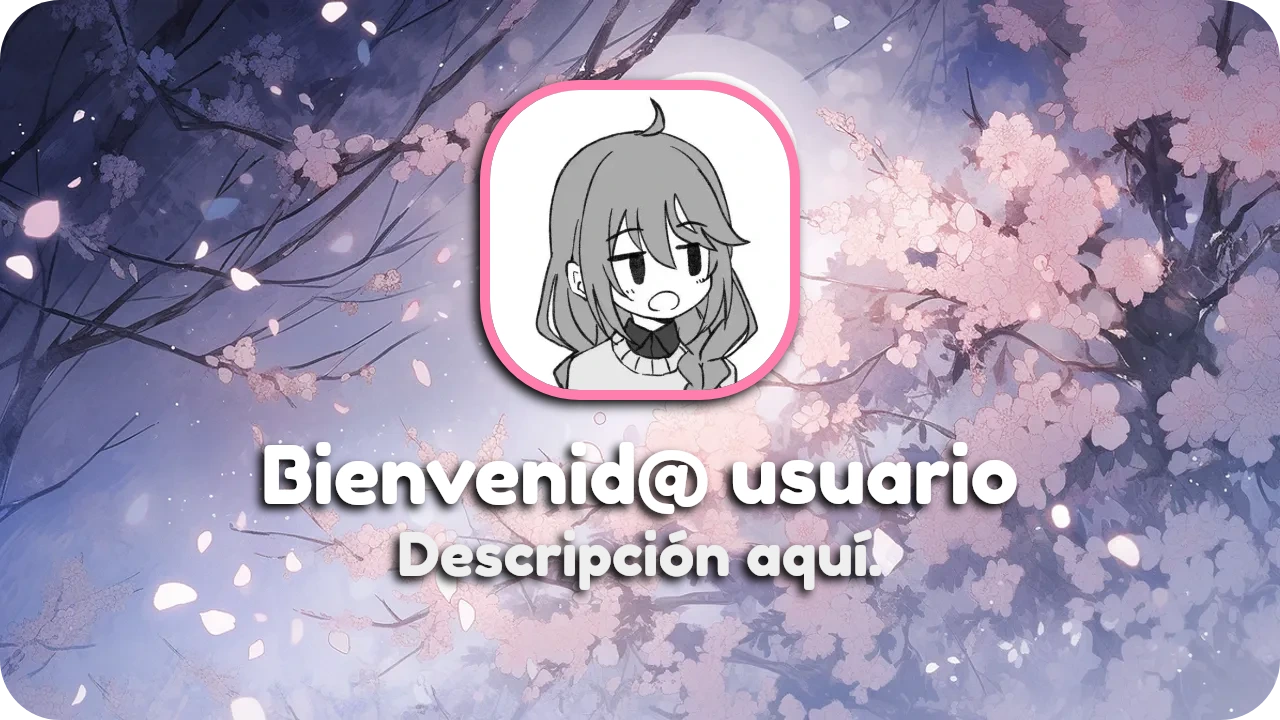
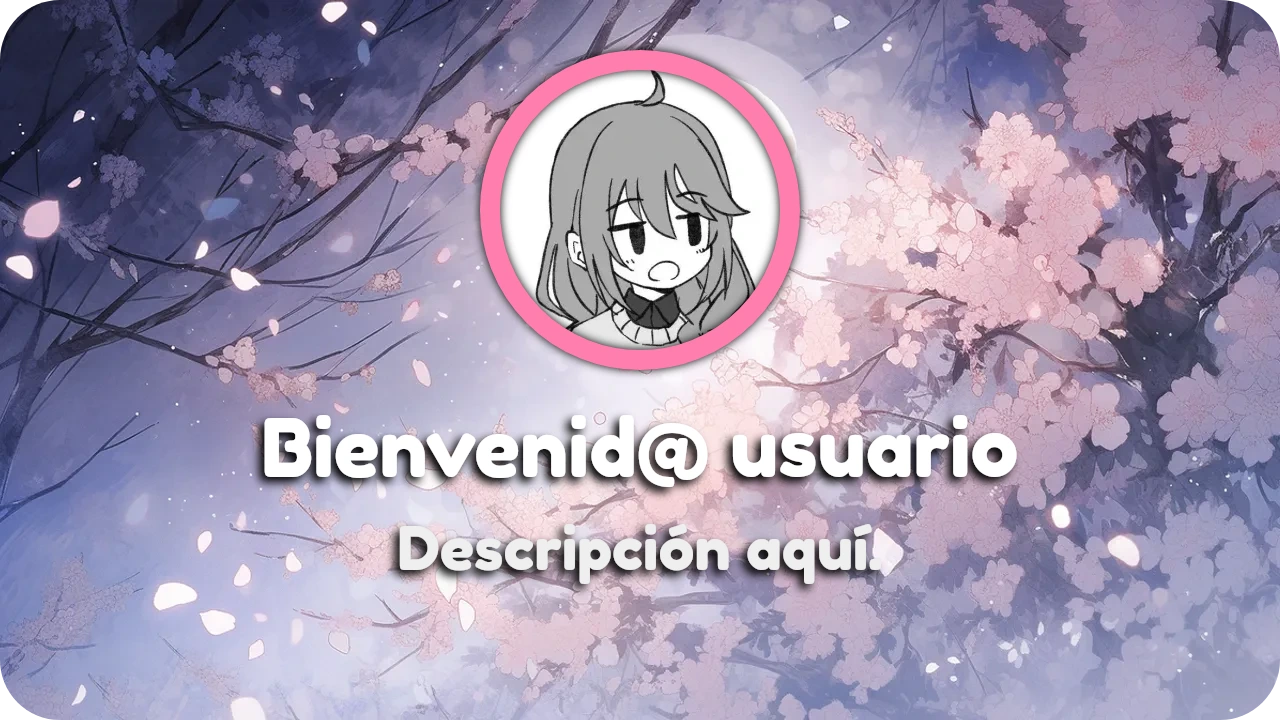
feat: v1.6.0

Changed region(s): [[0.1875, 0.0611, 0.8125, 0.825]]

diff --git a/src/services/cards.ts b/src/services/cards.ts
@@ -1,0 +1,69 @@
+import { WelcomeCard } from "../structures/WelcomeCard.js";
+import { CustomCardsError } from "../utils/error.js";
+import { welcomeCard } from "../utils/endpoints.js";
+import { ApiCardResponse } from "../types/api.js";
+import { FrameType } from "../types/models.js";
+import { AxiosInstance } from "axios";
+
+export class Cards {
+  constructor(protected api: AxiosInstance) {}
+
+  async createWelcomeCard(card: WelcomeCard): Promise<ApiCardResponse<Buffer>> {
+    if (!card) throw new CustomCardsError("card property is required");
+    if (!card.avatar) throw new CustomCardsError("card.avatar is required");
+    if (!card.font) throw new CustomCardsError("card.font is required");
+    if (!card.text) throw new CustomCardsError("card.text is required");
+    if (!(card.avatar.source instanceof File))
+      throw new CustomCardsError("Invalid avatar source, use an image adapter");
+
+    const body = new FormData();
+
+    body.append("variant", card.variant);
+    body.append("text", JSON.stringify(card.text));
+    body.append("font", card.font);
+    body.append("avatar", card.avatar.source);
+    body.append("frameType", card.avatar.frameType);
+
+    // Avatar
+    if (card.avatar.frameType !== FrameType.Custom) {
+      if (card.avatar.frameColor)
+        body.append("frameColor", card.avatar.frameColor);
+    } else {
+      if (!card.avatar.mask)
+        throw new CustomCardsError("card.avatar.mask is required");
+      if (!(card.avatar.mask instanceof File))
+        throw new CustomCardsError("Invalid mask source, use an image adapter");
+      if (!card.avatar.frame)
+        throw new CustomCardsError("card.avatar.frame is required");
+      if (!(card.avatar.frame instanceof File))
+        throw new CustomCardsError(
+          "Invalid frame source, use an image adapter"
+        );
+
+      body.append("mask", card.avatar.mask);
+      body.append("frame", card.avatar.frame);
+    }
+
+    // Background
+    if (card.background) {
+      if (!(card.background instanceof File))
+        throw new CustomCardsError(
+          "Invalid background source, use an image adapter"
+        );
+      body.append("background", card.background);
+    }
+    if (card.backgroundOpacity)
+      body.append("backgroundOpacity", `${card.backgroundOpacity}`);
+
+    try {
+      const { data } = await this.api.post<ApiCardResponse>(welcomeCard, body);
+      return {
+        card: Buffer.from(data.card, "base64"),
+        mimetype: data.mimetype,
+      };
+    } catch (e) {
+      const msg = Array.isArray(e.message) ? e.message[0] : e.message;
+      throw new CustomCardsError(msg);
+    }
+  }
+}

diff --git a/src/structures/WelcomeCard.ts b/src/structures/WelcomeCard.ts
@@ -1,7 +1,11 @@
-import { AvatarOptions, Fonts, TextOptions } from "../types/models.js";
+import { AvatarOptions, Fonts, TextOptions, Variant } from "../types/models.js";
 import { CustomCardsError } from "../utils/error.js";
 
 interface WelcomeCardData {
+  /**
+   * Set the variant card
+   */
+  variant: Variant;
   /**
    * Set the text for the card.
    *
@@ -17,20 +21,27 @@ interface WelcomeCardData {
    */
   background?: File;
   /**
+   * Set the background opacity.
+   */
+  backgroundOpacity?: number;
+  /**
    * Set the font family.
    */
   font: Fonts;
 }
 
-export class WelcomeCard {
+export class WelcomeCard implements WelcomeCardData {
+  variant: Variant;
   text: TextOptions[];
   avatar: AvatarOptions;
   background?: File;
+  backgroundOpacity?: number;
   font: Fonts;
 
   constructor(data: WelcomeCardData) {
     if (!data)
       throw new CustomCardsError("Missing WelcomeCard data in constructor");
+    if (!data.variant) throw new CustomCardsError("data.variant is required");
     if (!data.avatar) throw new CustomCardsError("data.avatar is required");
     if (!data.font) throw new CustomCardsError("data.font is required");
     if (!data.text) throw new CustomCardsError("data.text is required");
@@ -38,6 +49,8 @@ export class WelcomeCard {
     this.text = data.text;
     this.avatar = data.avatar;
     this.background = data.background;
+    this.backgroundOpacity = data.backgroundOpacity;
     this.font = data.font;
+    this.variant = data.variant;
   }
 }

diff --git a/src/types/models.ts b/src/types/models.ts
@@ -1,8 +1,13 @@
 export type HexColor = `#${string}`;
 
+export enum Variant {
+  Classic = "Classic",
+}
+
 export enum FrameType {
   Circle = "circle",
   Square = "square",
+  Custom = "custom",
 }
 
 export enum Fonts {
@@ -16,8 +21,15 @@ export interface TextOptions {
   color?: string;
 }
 
-export interface AvatarOptions {
-  src: File;
-  frameType: FrameType;
-  frameColor?: HexColor;
-}
+export type AvatarOptions =
+  | {
+      source: File;
+      frameType: FrameType.Circle | FrameType.Square;
+      frameColor?: HexColor;
+    }
+  | {
+      source: File;
+      frameType: FrameType.Custom;
+      mask: File;
+      frame: File;
+    };

diff --git a/src/core/Setup.ts b/src/core/Setup.ts
@@ -1,0 +1,17 @@
+import { AxiosInstance } from "axios";
+import { CustomCardsError } from "../utils/error.js";
+import { createHttpClient } from "./axios.js";
+import { Cards } from "../services/cards.js";
+
+export class Setup {
+  readonly _api: AxiosInstance;
+
+  constructor(private token: string) {
+    if (!this.token) throw new CustomCardsError("Missing token");
+
+    this._api = createHttpClient(token);
+    this.cards = new Cards(this._api);
+  }
+
+  cards: Cards;
+}

diff --git a/src/index.ts b/src/index.ts
@@ -3,9 +3,10 @@
  * Author: Yasu Yumiko
  * MIT LIcense
  */
-export * from "./models/WelcomeCard.js";
-export * from "./types/models.js";
-export * from "./providers/Client.js";
+export * from "./core/Setup.js";
+export * from "./structures/WelcomeCard.js";
 export * from "./adapters/imageUrl.adapter.js";
 export * from "./adapters/imageBuffer.adaper.js";
+export * from "./types/models.js";
+export * from "./types/api.js";
 export * from "./utils/error.js";

diff --git a/src/types/api.ts b/src/types/api.ts
@@ -4,6 +4,7 @@ export class ApiErrorResponse {
   statusCode: number;
 }
 
-export class ApiCardResponse {
-  card: ArrayBufferLike;
+export class ApiCardResponse<T extends string | Buffer = string> {
+  card: T;
+  mimetype: string;
 }

diff --git a/README.md b/README.md
@@ -9,14 +9,8 @@ Un simple módulo de manipulación de imágenes con Canvas, escrito en TypeScrip
 
 - [Instalación](#instalación)
 - [Importar Módulo](#importar-módulo)
-- [Tarjetas](#tarjetas)
-- Métodos
-  - [Estáticos](#métodos-estáticos)
-  - [Extras](#métodos-extras)
-- [Clase `Welcome`](#clase-welcome)
-- [Función `render`](#función-render)
-
-- [**Detalles del proyecto**](#detalles-del-proyecto)
+- [Uso básico](#uso-básico)
+- [Detalles del proyecto](#detalles-del-proyecto)
 
 ## Instalación
 
@@ -28,55 +22,37 @@ npm install custom-cards
 
 ### Importar módulo
 
-- ESM:
+> A partir de la versión 1.6.0 el módulo pasó a ser un ESM, por lo que usarlo con CommonJs puede llegar a dar problemas inesperados.
 
 ```js
 import * as CustomCards from "custom-cards";
 ```
 
-- CommonJS:
+### Uso básico
 
 ```js
-const CustomCards = require("custom-cards");
-```
+import { readFileSync } from "node:fs";
 
-### Tarjetas:
+// Leemos una imágen local
+const wpBuf = readFileSync("./wallpaper.jpg");
 
-Los métodos disponibles al importar el módulo.
+// Inicializamos el cliente (reemplazamos TOKEN por nuestro token)
+const client = new CustomCards.Setup("TOKEN");
 
-| Tarjeta   | Tipo      |
-| --------- | --------- |
-| _Welcome_ | _`Class`_ |
-
-### Métodos estáticos:
-
-- [`<card>.render()`](#función-render)
-
-### Métodos extras:
-
-| Método       | Tipo       | Descripción                                |
-| ------------ | ---------- | ------------------------------------------ |
-| registerFont | `Function` | Registra tus propias fuentes tipográficas. |
-| Fonts        | `Enum`     | Enumerado con las fuentes por defecto.     |
-
-### Clase `Welcome`:
-
-| Método                   | Tipo                     | Descripción                                  |
-| ------------------------ | ------------------------ | -------------------------------------------- |
-| _setAvatar(**options**)_ | options: `AvatarOptions` | Establece el avatar de la tarjeta.           |
-| _setImage(**src**)_      | src: `Source`            | Establece la imágen de fondo. **(opcional)** |
-| _setFont(**font**)_      | font: `Fonts \| string`  | Establece la fuente tipográfica.             |
-| _setText(**options**)_   | options: `TextOptions[]` | Establece el texto de la tarjeta.            |
-
-```js
-const card = new CustomCards.Welcome()
-  .setAvatar({
-    src: "https://yumikodev.vercel.app/avatar.webp",
+// Creamos el modelo de nuestra tarjeta
+const card = new CustomCards.WelcomeCard({
+  variant: "Classic",
+  avatar: {
+    // usamos "imageUrlAdapter" para usar imágenes desde una URL
+    source: await CustomCards.imageUrlAdapter(
+      "https://yumikodev.vercel.app/avatar.webp"
+    ),
     frameColor: "#ff7eae",
-    frameType: "square",
-  })
-  .setBackground("https://cdn.nekos.life/wallpaper/cGsBtWbjaGs.jpg")
-  .setText([
+    frameType: CustomCards.FrameType.Square,
+  },
+  background: await CustomCards.imageBufferAdapter(wpBuf),
+  font: CustomCards.Fonts.Fredoka,
+  text: [
     {
       content: "Bienvenid@ usuario",
       color: "#fff",
@@ -85,34 +61,28 @@ const card = new CustomCards.Welcome()
       content: "Descripción aquí.",
       color: "#eee",
     },
-  ])
-  .setFont(CustomCards.Fonts.Fredoka);
+  ],
+});
+
+const data = await client.cards.createWelcomeCard(card);
+console.log(data);
+/*
+{
+  "mimetype": "image/webp",
+  "card": Buffer<...>
+}
+*/
 ```
 
 #### Ejemplo:
 
-[![img](https://raw.githubusercontent.com/Yumiko0828/custom-cards/main/docs/img1.png)](https://www.npmjs.com/package/custom-cards)
-
-### Función `render`:
-
-El uso de la función `render` (teoría).
-
-> [!NOTE]
-> La función `render` es asíncrona, por lo que tendra que usar _`Promesas`_ o _`async / await`_.
-
-- Ejemplo de uso:
-
-  Cada [tarjeta](#tarjetas) tendrá un método estático que construirá la Tarjeta respectiva. A esta función se le debe pasar la instancia de la tarjeta.
-
-  ```js
-  const buffer = await Welcome.render(card);
-
-  console.log(buffer);
-  ```
+[![img](https://raw.githubusercontent.com/Yumiko0828/custom-cards/main/docs/img1.webp)](https://www.npmjs.com/package/custom-cards)
 
 ## Detalles del proyecto:
 
-- Licencia: **[MIT License](https://github.com/Yumiko0828/custom-cards/blob/main/LICENSE.md)**
+- Licencia: **[MIT License](LICENSE)**
 - Autor: **[Yasu Yumiko](https://discord.com/users/752918867273187378)**
+- [Servidor de Discord](https://discord.gg/YqUkagNPaw)
+- [Documentación oficial](https://custom-cards-web.vercel.app/)
 
 ### Gracias :D
